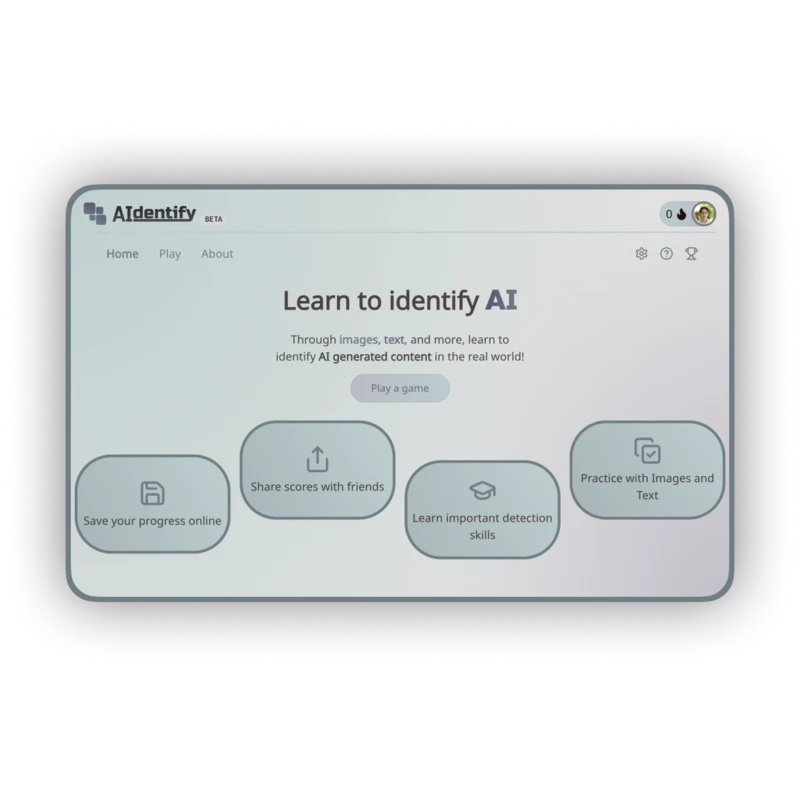
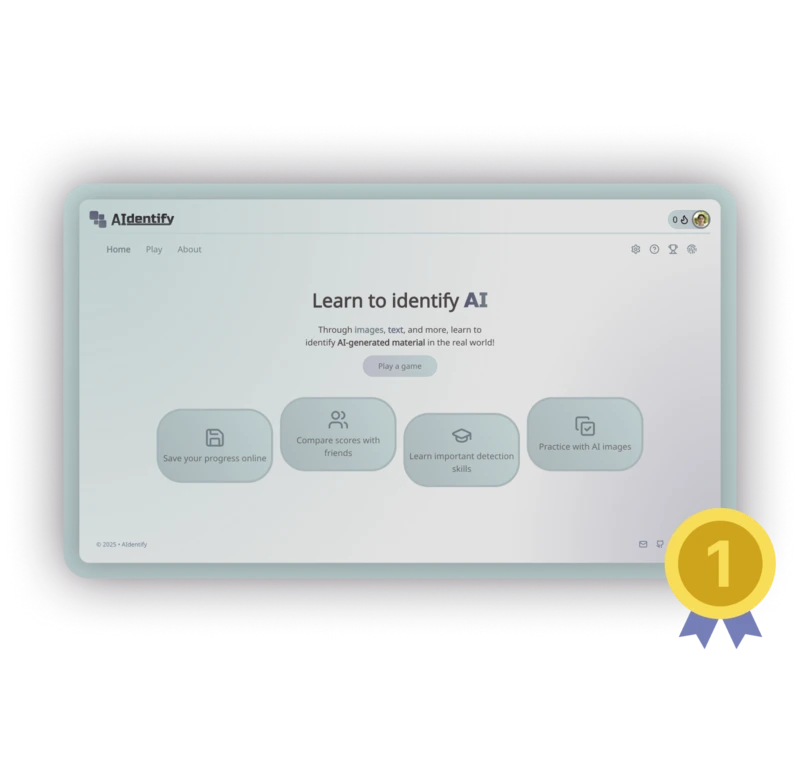
Update projects

Changed region(s): [[0.0625, 0.2113, 0.9688, 0.8451]]

diff --git a/index.html b/index.html
@@ -498,13 +498,13 @@
                                 <img class="popout-pic" src="images/gci.webp" alt="GCI">
                             </div>
                             <div class="project-popout-text">
-                                <h1>AIdentify Webgame <span class="project-year"><br>(2024 - 2025)</span></h1>
-                                <h2>Designing an Educational Webgame for AI Recognition</h2>
+                                <h1>AIdentify <span class="project-year"><br>(2024 - 2025)</span></h1>
+                                <h2>Designing an Educational Webgame to Teach AI Content Identification Through Repetition</h2>
                                 <div class="project-popout-paragraph">
-                                    <p>Lead designer and design/curriculum team member. Worked in a team within Chapman University's Grand Challenges Initiative to create an informational webgame that teaches users to recognize AI-generated media in the wild and differentiate it from authentic media. Designed website in Figma, researched AI models and detection methods, and created/generated all website content.</p>
+                                    <p>Design team leader, layed out the full website in Figma, and designed presentation poster. AIdentify was built within Chapman University's Grand Challenges Initiative (GCI) to combat AI misinformation by teaching users AI content detection skills through a fun and engaging webgame. From the initial concept to the final product, our team meticulously planned, organized, and built this webgame from scratch. First place winner for Technology/Education at the Chapman University GCI Showcase, Spring 2025.</p>
                                 </div>
                                 <div class="overlay-projects-links-container">
-                                    <a href="https://aidentify.vercel.app/"  target="_blank" class="p-overlay-btn">Play webgame</a>
+                                    <a href="https://playaidentify.com/"  target="_blank" class="p-overlay-btn">playaidentify.com</a>
                                     <div class="other-social-bar" id="gci-social-bar">
                                         <a href="https://github.com/DylanDevelops/aidentify" target="_blank" class="bottom-socials-item">
                                             <img src="images/white-github.webp" width="60%" alt="Website">
@@ -574,16 +574,16 @@
                     <div class="project-popout-content">
                         <div class="popout-container">
                             <div class="project-popout-image">
-                                <img class="popout-pic" src="images/data-structures.webp" alt="Data Structures">
+                                <img class="popout-pic" src="images/data-structures.webp" alt="Chapman Coding Projects">
                             </div>
                             <div class="project-popout-text">
-                                <h1>Data Structures Projects <span class="project-year"><br>(2024)</span></h1>
-                                <h2>Code and Projects from Data Structures and Algorithms</h2>
+                                <h1>Chapman Coding Projects <span class="project-year"><br>(2023 - current)</span></h1>
+                                <h2>Code and Projects from Chapman University Programming Courses</h2>
                                 <div class="project-popout-paragraph">
-                                    <p>Studied Data Structures and Algorithms at Chapman University Fowler School of Engineering. Completed projects to showcase learning and skills. These projects include simple command-line games and databases, all using differently implemented data structures like trees, graphs, stacks, and queues. Additionally, projects include sorting and graph traversal algorithms.</p>
+                                    <p>Studied Data Structures and Algorithms, Object-Oriented Programming, Data Communication and Computer Networks, and more Computer Science courses at Chapman University Fowler School of Engineering. Completed projects to showcase learning and skills including simple command-line games and databases, multi-user chat functionality, sorting and graph traversal algorithms, and more.</p>
                                 </div>
                                 <div class="overlay-projects-links-container">
-                                    <a href="https://github.com/divinewton/CPSC350" target="_blank" class="p-overlay-btn">View code on GitHub</a>
+                                    <a href="https://github.com/divinewton?tab=repositories&q=CPSC" target="_blank" class="p-overlay-btn">View code on GitHub</a>
                                 </div>
                             </div>
                         </div>
@@ -591,12 +591,12 @@
                 </div>
                 <div class="scrolling-wrapper">
                     <div class="project-card">
-                        <img src="images/uibydivi.webp" class="project-img" alt="UI by Divi">
-                        <h2 onclick="openUibydivi()">UI by Divi</h2>
-                        <h3>UI/UX Mobile Design Concepts and Social Media Growth</h3>
-                        <a onclick="openUibydivi()" class="project-btn-mobile">See more</a>
+                        <img src="images/gci.webp" class="project-img" alt="GCI">
+                        <h2 onclick="openGci()">AIdentify</h2>
+                        <h3>Designing an Educational Webgame to Teach AI Content Identification</h3>
+                        <a onclick="openGci()" class="project-btn-mobile">See more</a>
                         <div class="project-overlay">
-                            <a onclick="openUibydivi()" class="project-btn">See more</a>
+                            <a onclick="openGci()" class="project-btn">See more</a>
                         </div>
                     </div>
                     <div class="project-card">
@@ -609,12 +609,21 @@
                         </div>
                     </div>
                     <div class="project-card">
-                        <img src="images/gci.webp" class="project-img" alt="GCI">
-                        <h2 onclick="openGci()">AIdentify Webgame</h2>
-                        <h3>Designing an Educational Webgame for AI Recognition</h3>
-                        <a onclick="openGci()" class="project-btn-mobile">See more</a>
+                        <img src="images/uibydivi.webp" class="project-img" alt="UI by Divi">
+                        <h2 onclick="openUibydivi()">UI by Divi</h2>
+                        <h3>UI/UX Mobile Design Concepts and Social Media Growth</h3>
+                        <a onclick="openUibydivi()" class="project-btn-mobile">See more</a>
                         <div class="project-overlay">
-                            <a onclick="openGci()" class="project-btn">See more</a>
+                            <a onclick="openUibydivi()" class="project-btn">See more</a>
+                        </div>
+                    </div>
+                    <div class="project-card">
+                        <img src="images/data-structures.webp" class="project-img" alt="Chapman Coding Projects">
+                        <h2 onclick="openDS()">Chapman Coding Projects</h2>
+                        <h3>Code and Projects from Chapman University Programming Courses</h3>
+                        <a onclick="openDS()" class="project-btn-mobile">See more</a>
+                        <div class="project-overlay">
+                            <a onclick="openDS()" class="project-btn">See more</a>
                         </div>
                     </div>
                     <div class="project-card">
@@ -633,15 +642,6 @@
                         <a onclick="openApplescoop()" class="project-btn-mobile">See more</a>
                         <div class="project-overlay">
                             <a onclick="openApplescoop()" class="project-btn">See more</a>
-                        </div>
-                    </div>
-                    <div class="project-card">
-                        <img src="images/data-structures.webp" class="project-img" alt="Data Structures">
-                        <h2 onclick="openDS()">Data Structures Projects</h2>
-                        <h3>Code and Projects from Data Structures and Algorithms</h3>
-                        <a onclick="openDS()" class="project-btn-mobile">See more</a>
-                        <div class="project-overlay">
-                            <a onclick="openDS()" class="project-btn">See more</a>
                         </div>
                     </div>
                     <div class="project-card">

diff --git a/style.css b/style.css
@@ -753,7 +753,7 @@ nav {
 .project-img {
     border-radius: 15px;
     width: 75%;
-    height: 75%;
+    /* height: 75%; */
     transition: width 1s, height 1s, transform 1s;
 }
 .project-img:hover {
